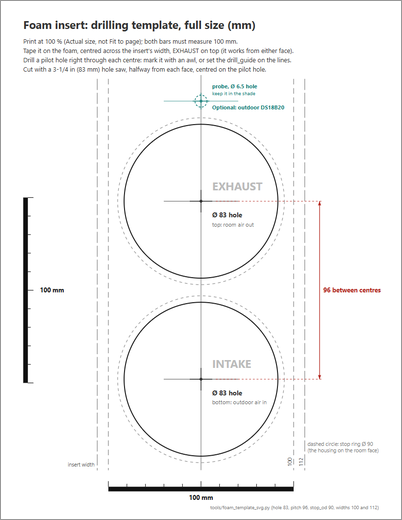
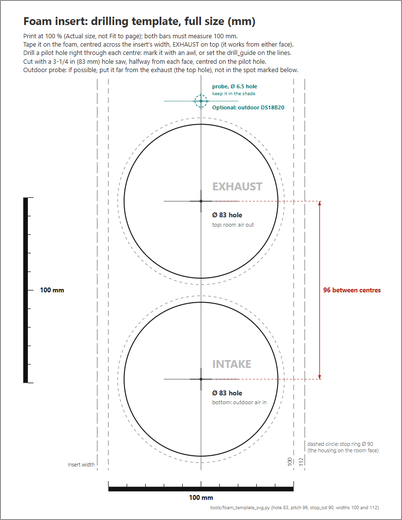
Outdoor probe: put it far from the exhaust if possible
Since the swap the template's probe spot, above the upper hole, sits
over the exhaust, whose warm air skews the reading. The drilling
template gets a fifth instruction line (title and lines moved up a
little to clear the probe's labels), and the README's parts list and
drilling section say to put the probe far from the exhaust if possible
(not between the holes: the insect screen's frame covers that strip).

Changed region(s): [[0.0597, 0.0308, 0.7463, 0.1538]]

diff --git a/tools/foam_template_svg.py b/tools/foam_template_svg.py
@@ -58,13 +58,14 @@ def arrow(x, y, dx, dy, color=C_DIM):
 
 
 # --- title and instructions ---------------------------------------------------------------------------
-text(12, 15, "Foam insert: drilling template, full size (mm)", 6, "start", weight="bold")
+text(12, 13, "Foam insert: drilling template, full size (mm)", 6, "start", weight="bold")
 for i, s in enumerate([
         "Print at 100 % (Actual size, not Fit to page); both bars must measure 100 mm.",
         "Tape it on the foam, centred across the insert's width, EXHAUST on top (it works from either face).",
         "Drill a pilot hole right through each centre: mark it with an awl, or set the drill_guide on the lines.",
-        "Cut with a 3-1/4 in (83 mm) hole saw, halfway from each face, centred on the pilot hole."]):
-    text(12, 23 + i * 5, s, 3.4, "start")
+        "Cut with a 3-1/4 in (83 mm) hole saw, halfway from each face, centred on the pilot hole.",
+        "Outdoor probe: if possible, put it far from the exhaust (the top hole), not in the spot marked below."]):
+    text(12, 20 + i * 4.6, s, 3.4, "start")   # the last one ends above the centre line (y 40)
 
 # --- guides: centre line, the largest gap ----------------------------------------------------------------
 y_top, y_bot = CY - PITCH / 2 - STOP / 2 - 9 - 14, CY + PITCH / 2 + STOP / 2 + 4

diff --git a/README.md b/README.md
@@ -162,7 +162,7 @@ Prices: Amazon.ca, October 2026, before taxes. Packs of two leave a spare.
 | AS5600 magnetic encoder board + **diametric** magnet | 1 | Sold with the magnet (the kit: 23.3 × 22.8 mm board, 3.95 × 2 mm magnet). A 20 × 20 board with 15 mm hole spacing also fits: 4 × M3 × 12 + nuts onto standoff pads on the bottom plate. See the magnet note below | $12.69 (pack of 2) |
 | ESP32-S3 dev board | 1 | Freenove ESP32-S3-WROOM Lite (FNK0099), the board the firmware's pinout is written for; other ESP32-S3-WROOM-1 boards work with a pin check. Flash it over USB on the bench; the final firmware updates over Wi-Fi | — |
 | CO₂ sensor, NDIR | 1 | Sensirion SCD40 module (CO₂ + temperature + humidity, I²C). Not CCS811/SGP30 ("eCO₂" estimates) | $37.45 |
-| DS18B20 temperature probe, waterproof | 1 (+1 optional) | Outdoor air: the 6 mm stainless probe on its cable goes through the foam insert, above the upper hole ([template](#drilling-the-foam-insert)). A second one, indoors on an inside wall, is optional: the SCD40 already reads the room's temperature | — |
+| DS18B20 temperature probe, waterproof | 1 (+1 optional) | Outdoor air: the 6 mm stainless probe on its cable goes through the foam insert ([template](#drilling-the-foam-insert)); if possible, far from the exhaust (the upper hole), whose warm air skews the reading. A second one, indoors on an inside wall, is optional: the SCD40 already reads the room's temperature | — |
 | Steel rod, 5 mm × 200 mm | 1 | Damper shaft. 200 mm fits as is, no cutting. If it is HSS (very hard), grind a small flat with a rotary tool where each disc and the coupler clamp, so the screws can't slip | $12.79 (pack of 2) |
 | Flexible shaft coupler, 5–5 mm, 19 × 25 mm | 1 | | $13.49 (pack of 2) |
 | M3 × 35 screws + M3 nuts | 8 each | Fans | — |
@@ -351,7 +351,7 @@ To adjust (open `cad/window_vent.scad` in OpenSCAD, change `seat_bare`, export `
 
 ### Drilling the foam insert
 
-The insert takes two 83 mm holes, 96 mm apart, exhaust on top. The housing's plain Ø 83.7 spigots are a snug fit in them (the saw measures 83.3 across its teeth, so its holes come out about 83.3), so no O-rings are needed (sand a tight hole a little). Print the [drilling template](doc/foam_template.pdf) at 100 %, check its 100 mm bars, tape it on the foam centred across its width, and mark both centres with an awl. The template also marks an optional hole for the outdoor temperature probe, above the upper hole.
+The insert takes two 83 mm holes, 96 mm apart, exhaust on top. The housing's plain Ø 83.7 spigots are a snug fit in them (the saw measures 83.3 across its teeth, so its holes come out about 83.3), so no O-rings are needed (sand a tight hole a little). Print the [drilling template](doc/foam_template.pdf) at 100 %, check its 100 mm bars, tape it on the foam centred across its width, and mark both centres with an awl. The template also marks an optional hole for the outdoor temperature probe, above the upper hole. That spot dates from when the intake was on top: it now sits over the exhaust, whose warm air reaches the probe, so if possible put the probe far from the exhaust instead (not between the holes: the insect screen's frame covers that strip).
 
 <p align="center">
   <a href="doc/foam_template.pdf"><img src="images/foam_template.png" alt="Preview of the drilling template: two 83 mm circles 96 mm apart, labelled exhaust (top) and intake (bottom), with centre crosses, the stop ring outlines, 100 and 112 mm width guides, an optional probe hole above the upper hole, and 100 mm scale bars" width="300"></a>
